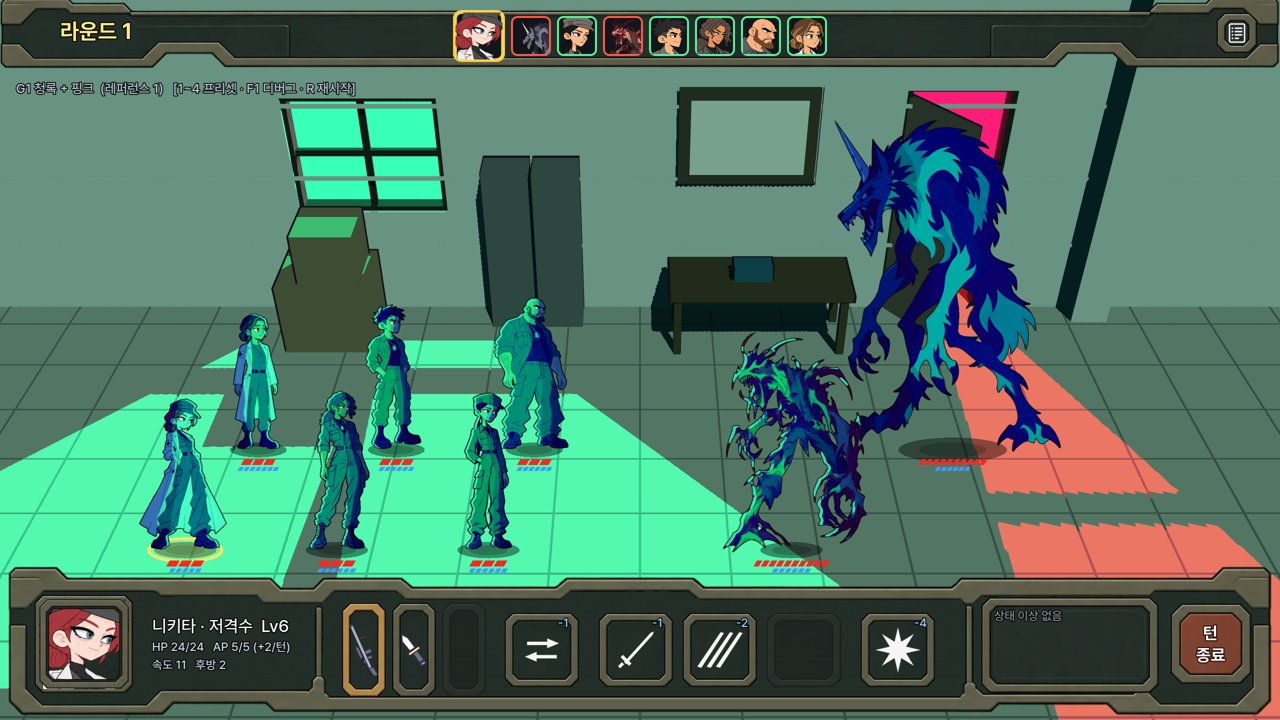
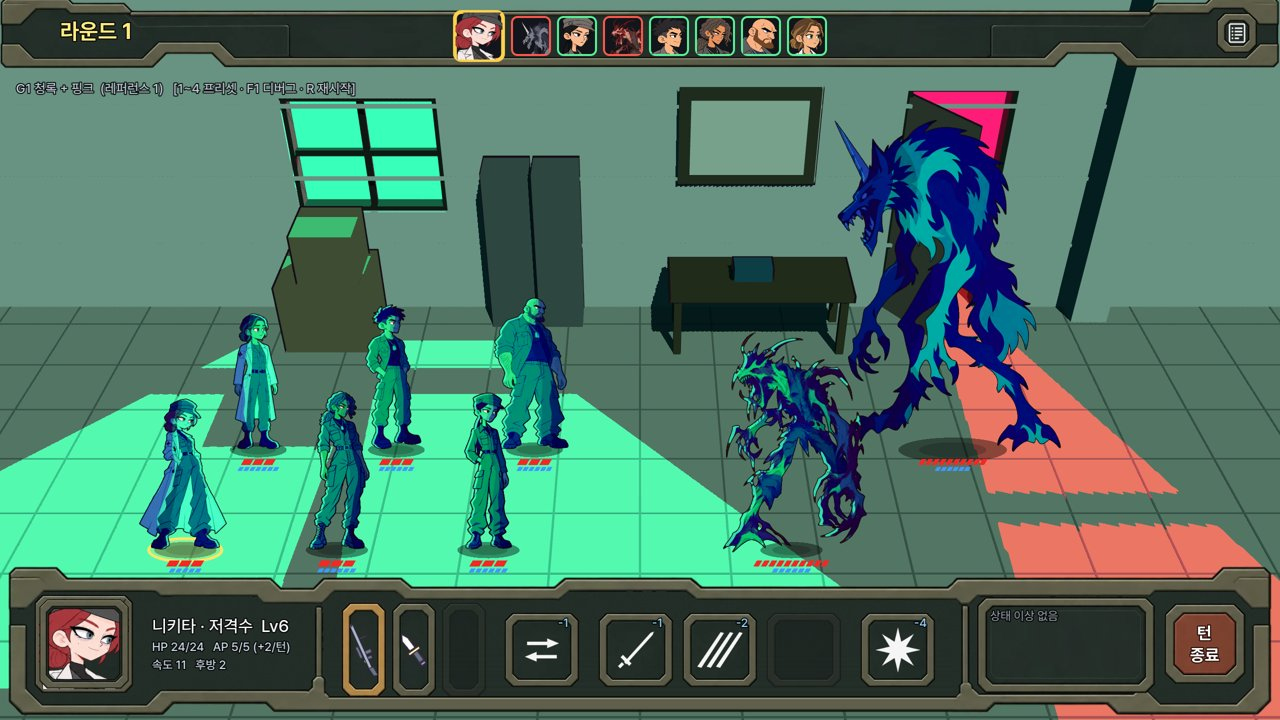
Battle UI v2: move the end-turn button a little left
Claude-Session: https://claude.ai/code/session_014aytw3hj7boqn3SZ5GP5ti

diff --git a/docs/design/PROTOTYPE_GDD_v1_0.md b/docs/design/PROTOTYPE_GDD_v1_0.md
@@ -4,9 +4,9 @@
 
 ## 0. 현재 구현 반영 (변경될 때마다 갱신)
 > 아래는 원 기획 이후 사용자 결정으로 바뀐 내용. 상세 결정 이력은 `00_decision_log_v1_0.md`, 아트 규격은 `../ui_art_spec.md`.
-> 마지막 갱신: 2026-10-31 (전투 슬롯 줄 3px 더 내림)
+> 마지막 갱신: 2026-10-31 (전투 턴 종료 버튼 조금 왼쪽)
 
-- **전투 UI v2** (사용자 제공 UI 패키지 art_src/ui/battle_ui_package.webp + 레퍼런스 art_src/ui/ref_battle_v2.webp → 조각 assets/ui/battle/v2/): 위 = 어두운 띠(양 끝 넓은 칸 — 왼쪽 라운드, 가운데 행동 순서, 오른쪽 기록 버튼 = 작은 사각 판), 아래 = 틀(원본 하단 바에서 안쪽 칸을 지운 bottom_shell — 칸막이 두 개를 이름 칸 오른쪽 · 상태 이상 창 왼쪽에 맞춰 늘림, 높이 150). 초상화 = 큰 사각 테두리, 무기 = 세로 판(장착 중 = 금색 판), 자리 이동 · 스킬 · 필살기 = 정사각형 판(선택 중 = 금색 테두리), 상태 이상 = 넓은 판, 턴 종료 = 붉은 판. 슬롯 아래 이름 글자 없음(이름 · 설명은 마우스를 올리면 말풍선), 무기 판 · 정사각형 판 모두 세로 가운데 — 스킬 구간(틀 위 띠가 아래로 튀어나온 칸) 안쪽 가운데보다 조금 아래(사용자 요청), 무기 판도 같이. 행동 순서 초상화 = 위 띠 안쪽 세로 가운데(지금 차례 초상화도 가운데 기준으로 키움). 마우스 올림 = 밝게, 못 씀 = 어둡게.
+- **전투 UI v2** (사용자 제공 UI 패키지 art_src/ui/battle_ui_package.webp + 레퍼런스 art_src/ui/ref_battle_v2.webp → 조각 assets/ui/battle/v2/): 위 = 어두운 띠(양 끝 넓은 칸 — 왼쪽 라운드, 가운데 행동 순서, 오른쪽 기록 버튼 = 작은 사각 판), 아래 = 틀(원본 하단 바에서 안쪽 칸을 지운 bottom_shell — 칸막이 두 개를 이름 칸 오른쪽 · 상태 이상 창 왼쪽에 맞춰 늘림, 높이 150). 초상화 = 큰 사각 테두리, 무기 = 세로 판(장착 중 = 금색 판), 자리 이동 · 스킬 · 필살기 = 정사각형 판(선택 중 = 금색 테두리), 상태 이상 = 넓은 판, 턴 종료 = 붉은 판(오른쪽 틀에서 6px 띄움). 슬롯 아래 이름 글자 없음(이름 · 설명은 마우스를 올리면 말풍선), 무기 판 · 정사각형 판 모두 세로 가운데 — 스킬 구간(틀 위 띠가 아래로 튀어나온 칸) 안쪽 가운데보다 조금 아래(사용자 요청), 무기 판도 같이. 행동 순서 초상화 = 위 띠 안쪽 세로 가운데(지금 차례 초상화도 가운데 기준으로 키움). 마우스 올림 = 밝게, 못 씀 = 어둡게.
 - **표현**: 캐릭터 2D **스프라이트 프레임 애니메이션**(**스프라이트 시트** `assets/characters/<id>/<동작>_<칸 수>.png`, 사용자가 제작 — 시트 없는 동작은 기본 그림 한 장. 현재: 하나·니키타·키라·단·이선·앨마 idle(기본 그림 숨쉬기) — 니키타(빨간 머리 의무병 코트)·키라(회색 군복, 최종)·하나(곱슬머리 군복·오른쪽 눈 아래 점, 최종)·앨마(흰 의무 가운)는 새 그림으로 교체되어 예전 걷기·피격·공격 시트는 지움) + 배경 3D(실광원·그림자). Skeleton2D 리그·3D 캐릭터 전환은 제거.
   칠 방식: **전 캐릭터 네온 칠**(선화는 원화 그대로, 면은 원화 밝기대로 조명색으로 덮음 — 어두운 면은 깊은 보라, 밝은 면은 조명색). `character.json` `"style": "classic"` 이면 예전 셀 칠, `"neon_gradient"` 0~1 = 몸 위→아래 색상 그라데이션(기본 끔).
   외곽 림(빛 반대쪽 가장자리 선): 그림 실루엣에서 셰이더가 직접 그림 — 원화 760px 기준 14px 두께, 윤곽을 따라 매끄럽게(계단 없음). 빛 반대쪽 가장자리 중 바깥이 트인 곳에만(턱 아래·밑단과 부츠 사이 같은 작은 틈 제외), 머리카락 끝 같은 가는 끝까지(림 안에선 어두운 먹선만 보존).

diff --git a/docs/design/00_decision_log_v1_0.md b/docs/design/00_decision_log_v1_0.md
@@ -669,6 +669,9 @@
 ### 2026-10-31 — 전투 슬롯 줄 조금 더 아래로
 - 사용자 요청: 스킬 · 무기 판 모두 3px 더 내림 (SlotsRow offset -125 ~ -21 → -122 ~ -18). 2560 창 기준 위아래 틈: 스킬 31/19px, 무기 28/12px.
 
+### 2026-10-31 — 전투 턴 종료 버튼 조금 왼쪽
+- EndTurnWrap margin_right 0 → 6 (턴 종료 6px 왼쪽). 상태 이상 창도 4px 왼쪽(-300~-120 → -304~-124)으로 옮겨 둘 사이 틈 유지.
+
 ## 검증 중 (확정 아님)
 - **배경 3D + 캐릭터 2D 하이브리드** (2026-10-25 적용): 배경은 3D 방을 2D 카메라와 같은 투영으로 렌더, 캐릭터 라이팅은 실제 광원 위치 기준
   (빛 쪽 얼굴·몸을 광원색으로 밝힘 + 빛이 뒤에서 오면 같은 쪽 가장자리 림 + 바닥 그림자). 캐릭터 2D(리그)는 확정 사항 유지. (이전 2D 배경 판은 2026-10-27 제거.)
